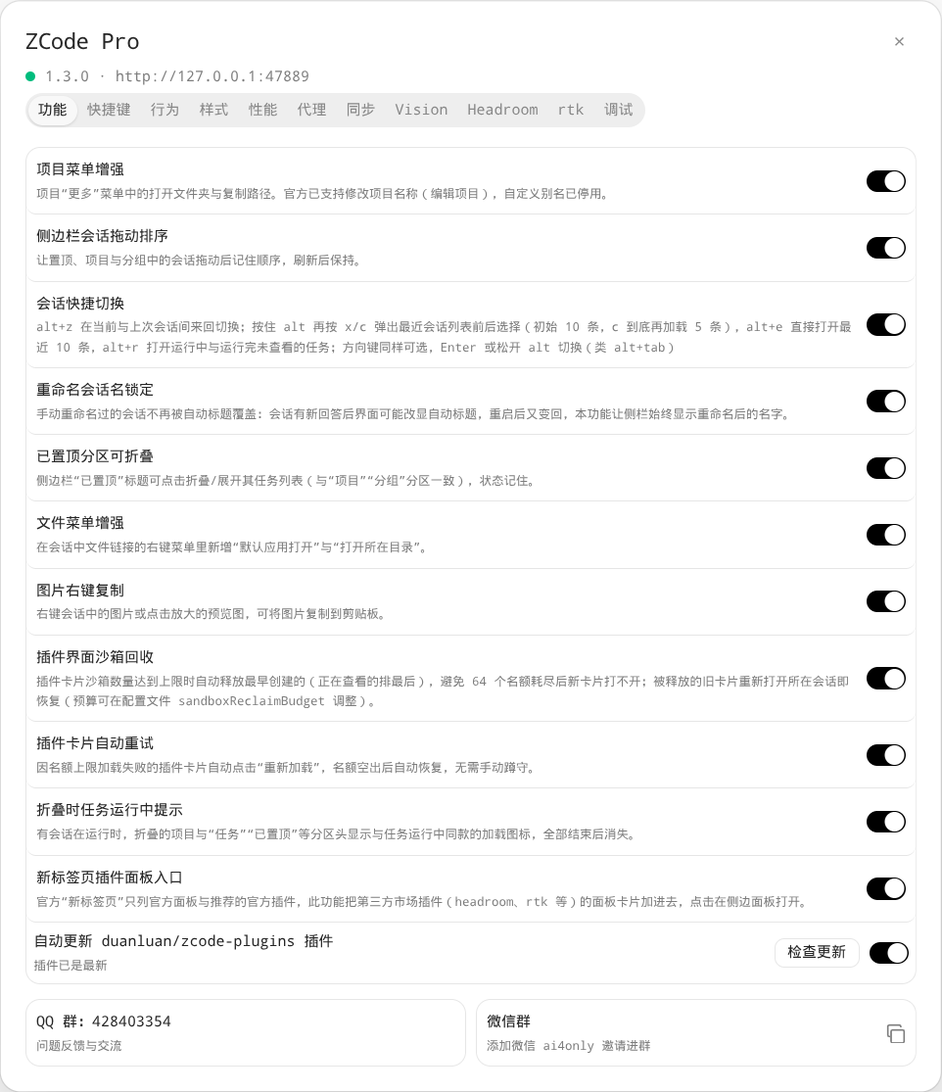
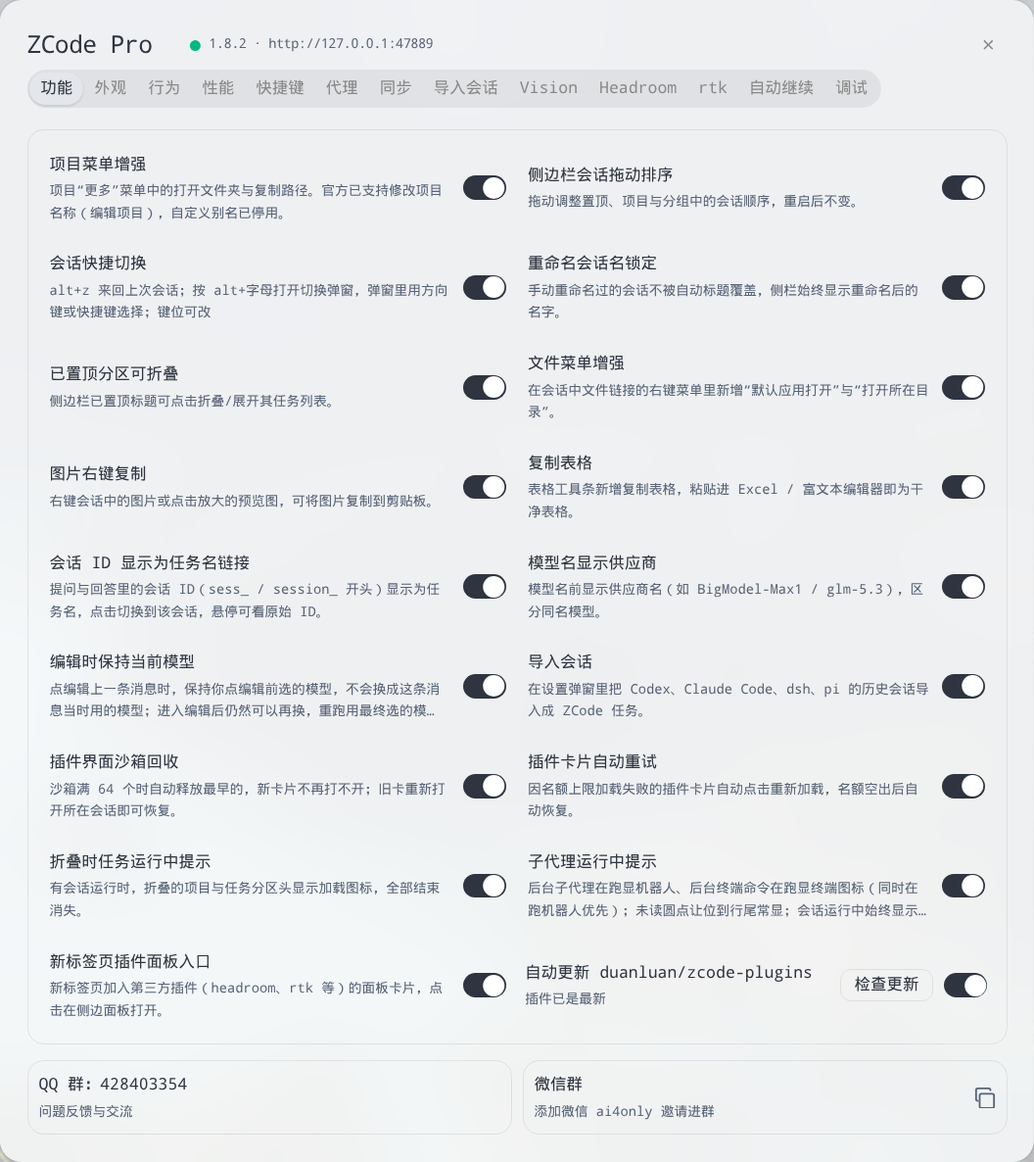
docs(README): 更新功能表与设置截图，去掉已停用功能与旧版本说明

diff --git a/README.md b/README.md
@@ -2,7 +2,7 @@
 
 [English](README.en.md) | 简体中文
 
-ZCode 桌面版增强工具：壁纸引擎（图片/视频/网页）、皮肤主题、会话快捷切换、状态栏统计等二十余项界面与体验增强。不修改客户端文件，通过 ZCode Pro 快捷方式或终端命令 `zcode-pro` 启动即可生效。
+ZCode 桌面版增强工具：壁纸引擎（图片/视频/网页）、皮肤主题、会话快捷切换、状态栏统计等三十余项界面与体验增强。不修改客户端文件，通过 ZCode Pro 快捷方式或终端命令 `zcode-pro` 启动即可生效。
 
[1 lines of base64/hex data omitted]
 
@@ -10,74 +10,82 @@ ZCode 桌面版增强工具：壁纸引擎（图片/视频/网页）、皮肤主
 
 ## ✨ 功能
 
-按主题分组排列：分类列为设置弹窗的标签页，带 `·` 的（如“行为 · 全局提示词”）为标签页内的二级子标签（表格与截图按主题排，与弹窗内的先后顺序未必一致）。
+按主题分组排列：分类列为设置弹窗的标签页，带 `·` 的（如“行为 · 全局提示词”）为标签页内的二级子标签。功能表按主题归类，截图按弹窗内的标签页顺序排列。
 
 | 分类 | 功能 | 说明 |
 | --- | --- | --- |
 | 功能 | 项目菜单增强（打开文件夹 / 复制路径） | 项目“更多”菜单：在系统文件管理器中打开项目目录，或复制项目路径 |
-| | ~~项目自定义别名~~（已停用） | 侧边栏显示自定义名称，仅界面显示，随时恢复；ZCode ≥ 3.16.1 已内置改名（项目菜单“编辑项目”），本功能自动停用并引导把已有别名迁移过去 |
-| | ~~切换文件夹~~（已停用） | 将项目指向另一个文件夹，侧边栏、标签页与任务历史一并迁移；切换前先停止运行中的任务；历史检查点仍引用原路径；ZCode ≥ 3.16.1 官方已支持一个项目挂多个目录，本功能随之停用 |
-| | 会话拖动排序 | 拖动调整置顶、项目与分组中的会话顺序，重启后不变 |
+| | 侧边栏会话拖动排序 | 拖动调整置顶、项目与分组中的会话顺序，重启后不变 |
 | | 会话快捷切换 | `alt+z` 在当前与上次会话间来回切换；按住 `alt` 按 `x`（上移）/ `c`（下移）在最近会话列表中选择（初始 10 条，`c` 到底再加载 5 条），`alt+e` 直接打开最近 10 条，`alt+r` 打开正在运行与运行完未查看的任务；方向键同样可选，`Enter` 或点击行切换；五个入口键可在 设置 → 快捷键 中修改 |
 | | 重命名会话名锁定 | 手动重命名过的会话不再被自动标题覆盖，侧栏始终显示重命名后的名字 |
 | | 已置顶分区可折叠 | 侧边栏“已置顶”标题可点击折叠/展开其任务列表，折叠状态会记住 |
 | | 文件菜单增强 | 会话中文件链接的右键菜单新增“默认应用打开”“打开所在目录” |
-| | 复制图片 | 右键会话中的图片或放大的预览图，复制到剪贴板 |
-| | 插件界面沙箱回收 | 插件卡片沙箱数量达到上限时释放最早创建的（正在查看的排最后），避免 64 个名额耗尽后新卡片打不开；被释放的旧卡片重新打开所在会话即恢复（回收触发额度在配置文件 sandboxReclaimBudget 调整，默认 60，上限固定 64） |
+| | 图片右键复制 | 右键会话中的图片或放大的预览图，复制到剪贴板 |
+| | 插件界面沙箱回收 | 插件卡片沙箱数量达到上限时释放最早创建的（正在查看的排最后），避免 64 个名额耗尽后新卡片打不开；被释放的旧卡片重新打开所在会话即恢复 |
 | | 插件卡片自动重试 | 名额腾出后自动补挂因 64 上限失败的插件卡片（自动点“重新加载”） |
-| | 折叠时任务运行中提示 | 有会话在运行时，折叠的项目与“任务”“已置顶”等分区头显示与任务运行中同款的加载图标，全部结束后消失 |
+| | 折叠时任务运行中提示 | 有会话在运行时，折叠的项目行与“项目”“任务”“已置顶”分区头显示与任务运行中同款的加载图标，全部结束后消失 |
+| | 子代理运行中提示 | 任务行在后台子代理运行时显示机器人图标、后台终端命令运行时显示终端图标（同时运行机器人优先）；未读圆点让位到行尾常显；会话运行中始终显示转圈图标；项目未读徽标忽略错误行 |
 | | 新标签页插件面板入口 | 官方“新标签页”只列官方面板与推荐的官方插件；本功能把第三方市场插件（headroom、rtk 等）的面板卡片加进去，点击在侧边面板打开 |
 | | 复制表格 | 回答内容表格的工具条新增“复制表格”按钮：以富文本写入剪贴板，粘贴进 Excel / 富文本编辑器即被识别为表格（分列成格、不带边框与背景色）；纯文本场景自动降级为 Tab 分列 |
 | | 会话 ID 显示为任务名链接 | 提问与回答里出现的会话 ID（`sess_` / `session_` 开头）显示为任务名，点击切换到该会话，悬停显示原 ID；代码块里的 ID 不处理 |
-| | 导入会话 | 把 Codex、Claude Code、dsh、pi 的历史会话复制成 ZCode 任务：按来源分标签，可搜索、按项目筛选、多选导入；导入是快照，保留文字、思考、工具调用和图片，不改变源会话 |
-| | 插件更新 | 一键检查并更新 zcode-plugins 市场插件，可选启动时自动更新 |
-| 快捷键 | 会话快捷键自定义 | 会话快捷切换的五个入口键（默认 `alt+z` / `x` / `c` / `e` / `r`）逐个修改：点“修改”后按下新键位（字母/数字）即生效，键位冲突会提示；可一键重置为默认 |
-| 行为 | ZCode CLI | 技能清单检查：统计完整清单字符数并对照注入预算，超出时提示清单被降级为只剩技能名和路径并给出建议预算；可配置技能系统、清单预算、额外技能目录与功能开关；工作区记忆仍在官方 设置 → Agent 能力 → 记忆 中配置，改动新会话起生效 |
-| | 全局提示词 | 编辑所有项目共享的默认指令，新会话起生效 |
-| | 自动重命名 | 新会话开始作答时按所选供应商与提示词生成任务名（默认跟随当前会话、glm-5.3-flash，提问阶段的多条消息都计入），生成结果按手动重命名保存，官方自动标题不再覆盖；可在设置中选供应商、模型并编辑提示词，附测试按钮；任务行悬浮按钮与右键菜单“重命名任务”下可按最近问答手动重命名，入口开关与问答数在设置里 |
+| | 模型名显示供应商 | 输入框的模型名前显示供应商名（如 BigModel-Max1 / glm-5.3），区分同名模型 |
 | | 编辑时保持当前模型 | 编辑上一条消息时保持你点编辑前选的模型，不换成这条消息当时用的模型；进入编辑后仍可再换 |
+| | 导入会话 | 把 Codex、Claude Code、dsh、pi 的历史会话复制成 ZCode 任务：按来源分标签，可搜索、按项目筛选、多选导入；导入是快照，保留文字、思考、工具调用和图片，不改变源会话 |
+| | 插件自动更新 | 一键检查并更新 zcode-plugins 市场插件，可设为打开设置时自动更新 |
+| 快捷键 | 会话快捷键自定义 | 会话快捷切换的五个入口键（默认 `alt+z` / `x` / `c` / `e` / `r`）逐个修改：点“修改”后按下新键位（字母/数字）即生效，键位冲突会提示；可一键重置为默认 |
+| 行为 · ZCode CLI | ZCode CLI | 技能清单检查：统计完整清单字符数并对照注入预算，超出时提示清单被降级为只剩技能名和路径并给出建议预算；可配置技能系统、清单预算、额外技能目录与功能开关；工作区记忆仍在官方 设置 → Agent 能力 → 记忆 中配置，改动新会话起生效 |
+| 行为 · 全局提示词 | 全局提示词 | 编辑所有项目共享的默认指令，新会话起生效 |
+| 行为 · 自动重命名 | 自动重命名 | 新会话开始作答时按所选供应商与提示词生成任务名（默认跟随当前会话、glm-5.3-flash，提问阶段的多条消息都计入），生成结果按手动重命名保存，官方自动标题不再覆盖；可在设置中选供应商、模型并编辑提示词，附测试按钮；任务行悬浮按钮与右键菜单“重命名任务”下可按最近问答手动重命名，入口开关与问答数在设置里 |
 | 外观 · 样式 | 侧栏菜单并入顶栏 | “新建任务 / 搜索 / 自动化 / 插件市场”收成顶部导航栏的图标按钮，对应界面打开时高亮 |
 | | 字体调整 | 自定义界面字体（除终端外全部界面文字）、提问字体与回答字体 |
 | | 侧栏间距调整 | 微调侧边栏项目间距与任务间距 |
 | | 界面样式调整 | 微调段落间距、内容宽度、各类行高、列表/引用块/表格间距与单元格边距；聚焦输入框时高亮预览受影响区域 |
-| 外观 · 状态栏 | 状态栏统计 | 提问输入框右下角和每轮回答最后显示统计项：最近输出 tokens/s（流式生成中按文本增长估算并标 ≈，调用完成后切到官方 60 秒窗口值，回答结束后停留在最后速率）、上下文占用（占用高时变色）、提问次数、今日/累计 token、任务总数，以官方数据为主；各项的顺序与显隐在 设置 → 外观 → 状态栏 调整。速率与每轮用量按会话记录统计，子代理是独立的会话记录、不计入 |
+| 外观 · 状态栏 | 状态栏统计 | 提问输入框右下角显示统计项：最近输出 tokens/s（流式生成中按文本增长估算并标 ≈，调用完成后切到官方 60 秒窗口值，回答结束后停留在最后速率）、平均缓存命中率、累计输入/输出、上下文占用（占用高时变色）、主请求数、今日/累计 token、任务总数，以官方数据为主；各项的顺序与显隐在 设置 → 外观 → 状态栏 调整。速率与每轮用量按会话记录统计，子代理是独立的会话记录、不计入 |
 | | 每轮回答 token 用量 | 在每条回答末尾操作按钮的时间后面显示该轮的输入/输出 token 与缓存命中率（本地记录只保留最近一段，更早的回答不标注） |
 | 外观 · 主题 | 界面皮肤 | 内置 11 套知名编辑器主题配色（Dracula / Nord / Tokyo Night / Catppuccin / Gruvbox / One Dark / Solarized / Rosé Pine / Everforest / Night Owl / Kanagawa），自动匹配 ZCode 的浅色 / 深色模式；另可自定义主题：浅色、深色各选 5 个颜色生成整套配色，改色实时生效 |
 | 外观 · 壁纸 | 壁纸 | 整窗铺背景，五种来源：无背景 / 本地图库（可传多张、点选当前、可单删）/ 文件夹（原地读取，按间隔定时轮换，可选随机或按文件名顺序）/ 网址（可按间隔定时刷新，配合随机图 API）/ 网页（沙箱 iframe 铺在后方）；左栏 / 中栏 / 右栏可分区独立设置（仅静态图，缩放与遮罩可单独调、可跟随全局）；遮罩不透明度（图片向主题背景色淡化程度）、图片模糊、面板不透明度（左栏、中栏与右栏的不透明程度）、插件卡片遮罩（插件卡片透出壁纸时垫在卡片底下的主题色遮罩）四个滑杆调节，另有转场方式、视频音量/倍速/帧率上限与暂停条件；设置弹窗默认磨砂透出壁纸（可在该页关掉），菜单等浮层保持不透明保可读；图库随 WebDAV 同步的 zcode-pro 组一起上传（覆盖式，不留历史版本） |
 | 性能 | 空闲项目内存回收 | 长时间未使用且无任务运行的项目自动释放其占用的内存，启动后也会自动回收一次未使用的项目；会话记录不受影响，再次打开时自动恢复（时长可调） |
-| 代理 | 软件代理 | 为插件更新安装与本体升级设置 HTTP 代理（WebDAV 同步可选走代理，默认关），附连通性检测 |
+| 代理 | 软件代理 | 为插件市场更新安装、headroom 与 rtk 的安装升级设置 HTTP 代理（WebDAV 同步可选走代理，默认关），附连通性检测 |
 | 同步 | 设置同步 | 手动把 ZCode Pro 设置与模型设置备份到 WebDAV，或在新电脑上恢复；仅在点击时传输 |
 | Vision | 视觉代理 | 主模型不识图时自动交给视觉模型识别图片，识别描述带给主模型；可视化编辑代理链（zcode-vision 插件） |
 | Headroom | Headroom 压缩 | 管理压缩设备、省电切换与代理运行状态，headroom 本体检查更新与升级（headroom 插件） |
 | rtk | rtk 压缩 | 管理改写提醒与命令白名单，rtk 本体检查更新与一键升级（rtk 插件） |
 
-各项功能均可在设置弹窗中开关或调整，ZCode 3.16.1 与 3.15.x 均可使用。
+各项功能均可在设置弹窗中开关或调整；建议使用最新版 ZCode，旧版本部分功能可能不可用。
 
 ## 🎛 设置界面
 
 右键点击 ZCode 侧边栏底部的设置按钮（齿轮）即可打开设置窗口，主要标签页如下：
 
-| 功能 | 快捷键 | 行为 · 全局提示词 |
+| 功能 | 外观 · 壁纸 | 外观 · 主题 |
 | --- | --- | --- |
-| <img src="docs/settings/01-features.png" width="280"> | <img src="docs/settings/02-shortcuts.png" width="280"> | <img src="docs/settings/03-behavior-global-prompt.png" width="280"> |
+| <img src="docs/settings/01-features.png" width="280"> | <img src="docs/settings/02-appearance-wallpaper.png" width="280"> | <img src="docs/settings/03-appearance-theme.png" width="280"> |
 
-| 行为 · 自动重命名 | 外观 · 样式 | 外观 · 状态栏 |
+| 外观 · 样式 | 外观 · 状态栏 | 行为 · ZCode CLI |
 | --- | --- | --- |
-| <img src="docs/settings/04-behavior-task-title.png" width="280"> | <img src="docs/settings/05-style-tweaks.png" width="280"> | <img src="docs/settings/06-style-status-bar.png" width="280"> |
+| <img src="docs/settings/04-appearance-styles.png" width="280"> | <img src="docs/settings/05-appearance-status-bar.png" width="280"> | <img src="docs/settings/06-behavior-zcode-cli.png" width="280"> |
 
-| 性能 | 代理 | 同步 |
+| 行为 · 全局提示词 | 行为 · 自动重命名 | 性能 |
 | --- | --- | --- |
-| <img src="docs/settings/07-performance.png" width="280"> | <img src="docs/settings/08-proxy.png" width="280"> | <img src="docs/settings/09-sync.png" width="280"> |
+| <img src="docs/settings/07-behavior-global-prompt.png" width="280"> | <img src="docs/settings/08-behavior-auto-rename.png" width="280"> | <img src="docs/settings/09-performance.png" width="280"> |
 
-| Vision | Headroom | rtk |
+| 快捷键 | 代理 | 同步 |
 | --- | --- | --- |
-| <img src="docs/settings/10-vision.png" width="280"> | <img src="docs/settings/11-headroom.png" width="280"> | <img src="docs/settings/12-rtk.png" width="280"> |
+| <img src="docs/settings/10-shortcuts.png" width="280"> | <img src="docs/settings/11-proxy.png" width="280"> | <img src="docs/settings/12-sync.png" width="280"> |
 
-> 后三个标签页（Vision / Headroom / rtk）来自同名插件，未安装时显示一键安装卡，装好后恢复完整设置。
+| 导入会话 | Vision | Headroom |
+| --- | --- | --- |
+| <img src="docs/settings/13-session-import.png" width="280"> | <img src="docs/settings/14-vision.png" width="280"> | <img src="docs/settings/15-headroom.png" width="280"> |
+
+| rtk |
+| --- |
+| <img src="docs/settings/16-rtk.png" width="280"> |
+
+> Vision / Headroom / rtk 三个标签页来自同名插件，未安装时显示一键安装卡，装好后恢复完整设置。
 
 ## 📦 安装与使用
 
-> **版本匹配**：ZCode ≥ 3.16.1 请使用 **zcode-pro 1.1.0 及以上**（当前最新 1.8.1）；ZCode ≤ 3.15.x 请使用 **zcode-pro 0.20.3**（旧版仍可用）。
+> **版本建议**：推荐使用最新版 ZCode，旧版本部分功能可能不可用。
 
 安装后，通过应用菜单 / 开始菜单中的“ZCode Pro”快捷方式或终端命令 `zcode-pro` 启动 ZCode，增强在该方式下自动生效；使用原有 ZCode 入口启动时不加载增强。
 
@@ -150,7 +158,7 @@ git clone https://aur.archlinux.org/zcode-pro.git && cd zcode-pro && makepkg -si
 
 ### 🚀 手动运行（不安装）
 
-无需单独安装 Node.js：优先使用 ZCode 内置运行时，缺少系统 Node 时亦能运行；ZCode 安装在默认或自定义目录均可（自动探测，必要时查注册表）。
+无需单独安装 Node.js：优先使用 ZCode 内置运行时；ZCode 装在默认或自定义目录均可（自动探测）。
 
 ```bash
 git clone https://github.com/duanluan/zcode-pro.git && cd zcode-pro
@@ -169,7 +177,7 @@ bin\zcode-pro.cmd setup
 
 - 启动器会以 `--remote-debugging-port`（默认 9333）拉起 ZCode，靠这个调试端口注入增强脚本。该端口没有鉴权，本机任何进程（含其他系统用户）连上后可以在 ZCode 页面里执行任意脚本，只适合在个人电脑上使用；可用 `--cdp-port <端口>` 或环境变量 ZCODEPRO_CDP_PORT 换端口（挡得住随手扫描，挡不住有心的本机进程）。
 - 本机服务只监听 127.0.0.1:47889，所有接口都要随机 token 才能调用；壁纸等媒体文件的直链上也带着同一个 token，外部网页读不走图库文件。
-- WebDAV 密码与起名用的 API Key 明文存在本机配置文件里（文件权限限本人读写），同步上传时这两项只留本机；自定义模型供应商的 API Key 会随“模型设置”组上传到你自己的 WebDAV（这是同步模型配置本身需要的）。
+- WebDAV 密码与自动重命名用的 API Key 明文存在本机配置文件里（文件权限限本人读写），同步上传时这两项只留本机；自定义模型供应商的 API Key 会随“模型设置”组上传到你自己的 WebDAV（这是同步模型配置本身需要的）。
 
 ## 📖 参考
 
@@ -180,21 +188,22 @@ bin\zcode-pro.cmd setup
 | `--cdp-port` | 调试端口，默认 9333 |
 | `--helper-port` | 本地辅助服务端口，默认 47889 |
 | `--zcode-path` | 显式指定 ZCode 可执行文件 |
-| `--inject-only` | 只接管已在运行的实例，不启动新实例 |
-| `--verbose` | 详细日志 |
+| `--inject-only`（别名 `--no-launch`） | 只接管已在运行的实例，不启动新实例 |
+| `--verbose`、`-v` | 详细日志 |
 | `setup [--desktop] [--uninstall]` | 安装/撤销本机快捷方式（`--desktop` 同时加桌面） |
 | `wallpaper <操作>` | 壁纸命令行：list / set / rotate / params / upload / delete（`wallpaper -h` 看详细用法） |
 
-仅 `--cdp-port`、`--helper-port`、`--zcode-path` 三个选项另有对应环境变量 `ZCODEPRO_CDP_PORT`、`ZCODEPRO_HELPER_PORT`、`ZCODEPRO_ZCODE_PATH`，命令行参数优先。
+仅 `--cdp-port`、`--helper-port`、`--zcode-path` 三个选项另有对应环境变量 `ZCODEPRO_CDP_PORT`、`ZCODEPRO_HELPER_PORT`、`ZCODEPRO_ZCODE_PATH`，命令行参数优先。另有 `ZCODE_DATA_BASE_DIR`（ZCode 数据根目录）、`RTK_DIR`（rtk 状态目录）等环境变量，完整列表见 `zcode-pro --help`。
 
 配置与数据位置：
 
 | 内容 | 位置 |
 | --- | --- |
-| 功能开关、项目别名、软件代理 | `~/.zcode/zcodepro.json` |
-| 启动诊断日志（Windows 快捷方式静默启动排查） | `~/.zcode/zcodepro.log` |
+| 功能开关、外观（主题/壁纸/样式）、快捷键、代理与同步配置 | `~/.zcode/zcodepro.json` |
+| 启动诊断日志 | `~/.zcode/zcodepro.log` |
 | 全局提示词 | `~/.zcode/AGENTS.md` |
 | ZCode 行为配置（技能清单预算等） | `~/.zcode/cli/config.json` |
+| 壁纸图库 | `~/.zcode/backgrounds/` |
 | 视觉代理（zcode-vision 插件） | `~/.zcode/zcode-vision.json` |
 | rtk 压缩（rtk 插件） | `~/.zcode-rtk/` |
 | Headroom（headroom 插件） | `~/.zcode/headroom.json` |

diff --git a/README.en.md b/README.en.md
@@ -2,7 +2,7 @@
 
 [简体中文](README.md) | English
 
-ZCode Pro is an enhancement pack for the ZCode desktop app: a wallpaper engine (image / video / web), skins, quick session switching, status bar stats and 20+ UI and workflow improvements. No client files are modified; just launch via the ZCode Pro shortcut or the `zcode-pro` terminal command.
+ZCode Pro is an enhancement pack for the ZCode desktop app: a wallpaper engine (image / video / web), skins, quick session switching, status bar stats and 30+ UI and workflow improvements. No client files are modified; just launch via the ZCode Pro shortcut or the `zcode-pro` terminal command.
 
[1 lines of base64/hex data omitted]
 
@@ -10,74 +10,82 @@ ZCode Pro is an enhancement pack for the ZCode desktop app: a wallpaper engine (
 
 ## ✨ Features
 
-Grouped by topic: the category column is a settings tab, entries with `·` (e.g. "Behavior · Global prompt") are sub-tabs (the table and screenshots are ordered by topic, not necessarily by their order in the dialog).
+Grouped by topic: the category column is a settings tab, entries with `·` (e.g. "Behavior · Global prompt") are sub-tabs. Screenshots follow the tab order in the dialog.
 
 | Category | Feature | Description |
 | --- | --- | --- |
 | Features | Project menu actions (open folder / copy path) | Project "More" menu: open the project directory in the file manager, or copy its path |
-| | ~~Custom alias~~ (retired) | Show a custom name for a project in the sidebar; UI-only, revert anytime; renaming is built into ZCode ≥ 3.16.1 (project menu "Edit project") — the feature disables itself there and offers to migrate existing aliases |
-| | ~~Switch project folder~~ (retired) | Point a project at another folder; sidebar, tabs and task history follow. Stop running tasks before switching; historical checkpoints still reference the original path; retired on ZCode ≥ 3.16.1, where a project can hold multiple directories natively |
 | | Sidebar session drag ordering | Reorder sessions in Pinned, Projects and Groups; persists across refreshes |
 | | Session quick switch | `alt+z` toggles between the current and the last session; hold `alt` and press `x` (up) / `c` (down) to pick from recent sessions (10 shown initially, pressing `c` at the bottom loads 5 more), `alt+e` opens the last 10 directly, `alt+r` opens running / finished-but-unseen tasks; arrow keys also move the highlight, press `Enter` or click a row to switch; the five trigger keys are customizable in Settings → Shortcuts |
 | | Keep renamed session titles | Sessions you renamed keep their custom title; auto-generated titles no longer overwrite it in the sidebar |
 | | Collapsible Pinned section | The sidebar "Pinned" header collapses/expands its task list; the state is remembered |
 | | File menu actions | Adds "Open with default app" and "Reveal in file manager" to file links in chat |
 | | Copy image | Right-click an image in chat or the enlarged preview to copy it to the clipboard |
-| | Plugin card sandbox reclaim | Releases the oldest plugin-card sandboxes once the cap is hit (the one being viewed goes last), so new cards keep opening after the 64-slot pool fills up; released cards come back when their session is reopened (reclaim trigger threshold adjustable via the sandboxReclaimBudget config file key, default 60; the 64-slot cap is fixed) |
+| | Plugin card sandbox reclaim | Releases the oldest plugin-card sandboxes once the cap is hit (the one being viewed goes last), so new cards keep opening after the 64-slot pool fills up; released cards come back when their session is reopened |
 | | Plugin card auto-retry | Auto-clicks "Reload" on cards that hit the 64-slot cap, so they recover as soon as a slot frees up |
-| | Running indicator when collapsed | While any session is running, collapsed projects and the "Tasks" / "Pinned" section headers show the same loader the running task row uses; it disappears when all finish |
+| | Running indicator when collapsed | While any session is running, collapsed project rows and the "Projects" / "Tasks" / "Pinned" section headers show the same loader the running task row uses; it disappears when all finish |
+| | Subagent running indicator | Task rows show a robot icon while background subagents run and a terminal icon while background commands run (robot wins when both); the unread dot moves to the row end; running sessions always show a spinner; project unread badges ignore error rows |
 | | Plugin panels on the new tab page | The built-in "new tab page" only lists built-in panels and recommended official plugins; this adds cards for third-party marketplace plugin panels (headroom, rtk, …) that open in the side pane |
 | | Copy table | Adds a "Copy table" button to the table toolbar in answers: writes rich text to the clipboard so Excel / rich-text editors paste it as a real table (with separate cells, no borders or background colors); plain-text targets get tab-separated values |
 | | Session ID links | Session IDs (`sess_` / `session_`) in questions and answers render as task names; click to switch to that session, hover for the raw ID; IDs in code blocks are left as-is |
+| | Provider in model name | Shows the provider before the model name in the composer (e.g. BigModel-Max1 / glm-5.3), so models with the same name are distinguishable |
+| | Keep current model when editing | Keeps the model you selected before editing instead of the model the message was sent with; you can still change it in the editor |
 | | Session import | Copy sessions from Codex, Claude Code, dsh and pi into ZCode tasks: per-source tabs, search, project filter, multi-select import; the import is a snapshot that keeps text, thinking, tool calls and images without changing the source session |
-| | Auto-update | Check and update zcode-plugins marketplace plugins in one click, optional auto-update on startup |
+| | Auto-update | Check and update zcode-plugins marketplace plugins in one click; can be set to update automatically when the settings window is opened |
 | Shortcuts | Shortcut customization | Rebind the five session quick switch trigger keys (`alt+z` / `x` / `c` / `e` / `r` by default) one by one: click "Change" and press a new key (a single letter or digit only, conflicts rejected); reset all to defaults in one click |
 | Behavior · ZCode CLI | ZCode CLI | Skill listing check: counts the full listing against the listing budget, warns when it degrades to names and file paths only and suggests a budget; configure the skill system, listing budget, extra skill directories and feature switches; workspace memory stays in the official settings under Settings → Agent capabilities → Memory; changes apply to new sessions |
 | Behavior · Global prompt | Global prompt | Edit default instructions shared by all projects; applies to new sessions |
 | Behavior · Auto rename | Auto rename | When a new session starts answering, generates the task name with a provider and prompt you choose (provider follows the current session, model defaults to glm-5.3-flash; every question sent before the first answer counts), saved as a manual rename the built-in auto title never overrides; provider, model and prompt are editable in settings, with a test button; a hover button on task rows and a context-menu entry under "Rename task" rename manually from the recent Q&A, with toggles for each entry point and the round count in settings |
-| | Keep current model when editing | Keeps the model you selected before editing instead of the model the message was sent with; you can still change it in the editor |
-| Appearance · Styles | Sidebar menu in the top bar | Turns "New task / Search / Automations / Plugin store" into icon buttons in the top navigation bar, highlighted while its view is open|
+| Appearance · Styles | Sidebar menu in the top bar | Turns "New task / Search / Automations / Plugin store" into icon buttons in the top navigation bar, highlighted while its view is open |
 | | Font adjustment | Custom UI font (all interface text except the terminal), question font and answer font |
 | | Sidebar spacing | Fine-tune sidebar project spacing and task spacing |
 | | UI style adjustments | Fine-tune paragraph spacing, content width, line heights, list/quote/table spacing and cell padding; focusing an input highlights the affected areas |
-| Appearance · Status bar | Status bar statistics | Shows statistics at the bottom-right of the input box and at the end of each answer: recent output tokens/s (estimated from text growth and marked ≈ while streaming, switches to the official 60-second window value after the call completes, and holds the last rate after an answer ends), context usage (changes color when high), questions asked, today/total tokens and task count, mostly from official data; reorder or hide each item under Settings → Appearance → Status bar. Rate and per-turn usage are scoped to the session's own records; subagent calls live in separate session records and are not counted |
+| Appearance · Status bar | Status bar statistics | Shows statistics at the bottom-right of the input box: recent output tokens/s (estimated from text growth and marked ≈ while streaming, switches to the official 60-second window value after the call completes, and holds the last rate after an answer ends), average cache hit rate, cumulative input/output, context usage (changes color when high), main request count, today/total tokens and task count, mostly from official data; reorder or hide each item under Settings → Appearance → Status bar. Rate and per-turn usage are scoped to the session's own records; subagent calls live in separate session records and are not counted |
 | | Per-turn token usage | Shows that turn's in/out tokens and cache hit rate, shown after the timestamp in each answer's action row (local records keep only a recent window; older answers stay unlabeled) |
 | Appearance · Theme | Skins | Eleven well-known editor theme palettes (Dracula / Nord / Tokyo Night / Catppuccin / Gruvbox / One Dark / Solarized / Rosé Pine / Everforest / Night Owl / Kanagawa), auto-matching ZCode's light / dark mode; plus a custom theme: pick 5 colors each for light and dark to derive the whole palette, with live preview |
 | Appearance · Wallpaper | Wallpaper | Window-wide background from five sources: none / local library (upload many, pick the active one, delete freely) / folder (read in place, rotate on a timer, random or by filename) / URL (refresh on a timer for random-image APIs) / web page (sandboxed iframe behind the UI); the left, center and right panes can each get their own background (static images only, fit and mask settable per pane, or follow the global settings); four sliders — mask opacity (image fading toward the theme background color), image blur, panel opacity, plugin card veil (theme-colored layer behind plugin cards while the wallpaper shows through) — plus transition style, video volume/playback rate/FPS cap and pause conditions; the settings window is frosted over the wallpaper by default (can be turned off on that page), menus stay opaque; the library uploads with the zcode-pro WebDAV sync group (overwrite, no history versions) |
 | Performance | Idle project memory reclaim | Projects unused for a while with no running tasks release their memory automatically, and unused ones are reclaimed once after startup; sessions are untouched and reload when reopened (durations adjustable) |
-| Proxy | Software proxy | Set an HTTP proxy for plugin updates/installs and tool upgrades (WebDAV sync can optionally use it, off by default), with connectivity test |
+| Proxy | Software proxy | Set an HTTP proxy for marketplace updates/installs and for installing/upgrading headroom and rtk (WebDAV sync can optionally use it, off by default), with connectivity test |
 | Sync | Settings sync | Manually back up ZCode Pro settings and model settings to WebDAV, or restore them on a new computer; transfers only on click |
 | Vision | Vision proxy | Automatically hand images to vision models for recognition when the main model cannot see them, and feed the descriptions to the main model; visual chain editor (zcode-vision plugin) |
 | Headroom | Headroom | Manage compression device, power-save switching and proxy status; check and upgrade the headroom program (headroom plugin) |
 | rtk | rtk compression | Manage rewrite hints and the command whitelist; check and upgrade the rtk program (rtk plugin) |
 
-All features can be toggled or adjusted in the settings window; works on both ZCode 3.16.1 and 3.15.x.
+All features can be toggled or adjusted in the settings window; the latest ZCode version is recommended, as some features may not work on older versions.
 
 ## 🎛 Settings
 
 Right-click the settings button (gear) at the bottom of the ZCode sidebar to open the settings window:
 
-| Features | Shortcuts | Behavior · Global prompt |
+| Features | Appearance · Wallpaper | Appearance · Theme |
 | --- | --- | --- |
-| <img src="docs/settings/01-features.png" width="280"> | <img src="docs/settings/02-shortcuts.png" width="280"> | <img src="docs/settings/03-behavior-global-prompt.png" width="280"> |
+| <img src="docs/settings/01-features.png" width="280"> | <img src="docs/settings/02-appearance-wallpaper.png" width="280"> | <img src="docs/settings/03-appearance-theme.png" width="280"> |
 
-| Behavior · Auto rename | Appearance · Styles | Appearance · Status bar |
+| Appearance · Styles | Appearance · Status bar | Behavior · ZCode CLI |
 | --- | --- | --- |
-| <img src="docs/settings/04-behavior-task-title.png" width="280"> | <img src="docs/settings/05-style-tweaks.png" width="280"> | <img src="docs/settings/06-style-status-bar.png" width="280"> |
+| <img src="docs/settings/04-appearance-styles.png" width="280"> | <img src="docs/settings/05-appearance-status-bar.png" width="280"> | <img src="docs/settings/06-behavior-zcode-cli.png" width="280"> |
 
-| Performance | Proxy | Sync |
+| Behavior · Global prompt | Behavior · Auto rename | Performance |
 | --- | --- | --- |
-| <img src="docs/settings/07-performance.png" width="280"> | <img src="docs/settings/08-proxy.png" width="280"> | <img src="docs/settings/09-sync.png" width="280"> |
+| <img src="docs/settings/07-behavior-global-prompt.png" width="280"> | <img src="docs/settings/08-behavior-auto-rename.png" width="280"> | <img src="docs/settings/09-performance.png" width="280"> |
 
-| Vision | Headroom | rtk |
+| Shortcuts | Proxy | Sync |
 | --- | --- | --- |
-| <img src="docs/settings/10-vision.png" width="280"> | <img src="docs/settings/11-headroom.png" width="280"> | <img src="docs/settings/12-rtk.png" width="280"> |
+| <img src="docs/settings/10-shortcuts.png" width="280"> | <img src="docs/settings/11-proxy.png" width="280"> | <img src="docs/settings/12-sync.png" width="280"> |
 
-> The last three tabs (Vision / Headroom / rtk) come from the plugins of the same name; when a plugin is missing, the tab shows a one-click install card and switches to the full panel once installed.
+| Session import | Vision | Headroom |
+| --- | --- | --- |
+| <img src="docs/settings/13-session-import.png" width="280"> | <img src="docs/settings/14-vision.png" width="280"> | <img src="docs/settings/15-headroom.png" width="280"> |
+
+| rtk |
+| --- |
+| <img src="docs/settings/16-rtk.png" width="280"> |
+
+> The Vision / Headroom / rtk tabs come from the plugins of the same name; when a plugin is missing, the tab shows a one-click install card and switches to the full panel once installed.
 
 ## 📦 Installation
 
-> **Version match**: for ZCode ≥ 3.16.1 use **zcode-pro 1.1.0 or newer** (the latest is 1.8.1); for ZCode 3.15.x and earlier use **zcode-pro 0.20.3** (the previous release, still available).
+> **Version note**: the latest ZCode version is recommended; some features may not work on older versions.
 
 Once installed, launch ZCode via the "ZCode Pro" shortcut in your app menu / Start menu, or the `zcode-pro` command in a terminal — the enhancements are enabled automatically in this mode; launching ZCode through its original entry does not load them. After launching, right-click the settings button at the bottom of the ZCode sidebar to open the ZCode Pro settings window.
 
@@ -150,7 +158,7 @@ If you previously installed via `install.sh`, run `./scripts/install.sh --uninst
 
 ### 🚀 Run without installing
 
-No standalone Node.js required: the runtime bundled with ZCode is preferred and used even without a system Node; works whether ZCode is installed in the default directory or a custom one (auto-detected, falling back to the registry).
+No standalone Node.js required: the runtime bundled with ZCode is preferred; works whether ZCode is installed in the default directory or a custom one (auto-detected).
 
 ```bash
 git clone https://github.com/duanluan/zcode-pro.git && cd zcode-pro
@@ -180,21 +188,22 @@ Command-line options (see `zcode-pro --help` for all):
 | `--cdp-port` | Debug port, default 9333 |
 | `--helper-port` | Local helper port, default 47889 |
 | `--zcode-path` | Explicit path to the ZCode executable |
-| `--inject-only` | Attach to a running instance only; do not launch a new one |
-| `--verbose` | Verbose logging |
+| `--inject-only` (alias `--no-launch`) | Attach to a running instance only; do not launch a new one |
+| `--verbose`, `-v` | Verbose logging |
 | `setup [--desktop] [--uninstall]` | Install/undo local shortcuts (`--desktop` also adds a desktop one) |
 | `wallpaper <op>` | Wallpaper CLI: list / set / rotate / params / upload / delete (see `wallpaper -h`) |
 
-Only `--cdp-port`, `--helper-port` and `--zcode-path` also have a `ZCODEPRO_*` environment variable (`ZCODEPRO_CDP_PORT`, `ZCODEPRO_HELPER_PORT`, `ZCODEPRO_ZCODE_PATH`); the command-line option wins.
+Only `--cdp-port`, `--helper-port` and `--zcode-path` also have a `ZCODEPRO_*` environment variable (`ZCODEPRO_CDP_PORT`, `ZCODEPRO_HELPER_PORT`, `ZCODEPRO_ZCODE_PATH`); the command-line option wins. Other variables include `ZCODE_DATA_BASE_DIR` (ZCode data root) and `RTK_DIR` (rtk state directory); see `zcode-pro --help` for the full list.
 
 Configuration and data locations:
 
 | Content | Location |
 | --- | --- |
-| Feature switches, aliases, software proxy | `~/.zcode/zcodepro.json` |
-| Startup diagnostics log (silent shortcut launches, Windows) | `~/.zcode/zcodepro.log` |
+| Feature switches, appearance (theme / wallpaper / styles), shortcuts, proxy and sync settings | `~/.zcode/zcodepro.json` |
+| Startup diagnostics log | `~/.zcode/zcodepro.log` |
 | Global prompt | `~/.zcode/AGENTS.md` |
 | ZCode behavior settings (skill listing budget etc.) | `~/.zcode/cli/config.json` |
+| Wallpaper library | `~/.zcode/backgrounds/` |
 | Vision proxy (zcode-vision plugin) | `~/.zcode/zcode-vision.json` |
 | rtk compression (rtk plugin) | `~/.zcode-rtk/` |
 | Headroom (headroom plugin) | `~/.zcode/headroom.json` |
